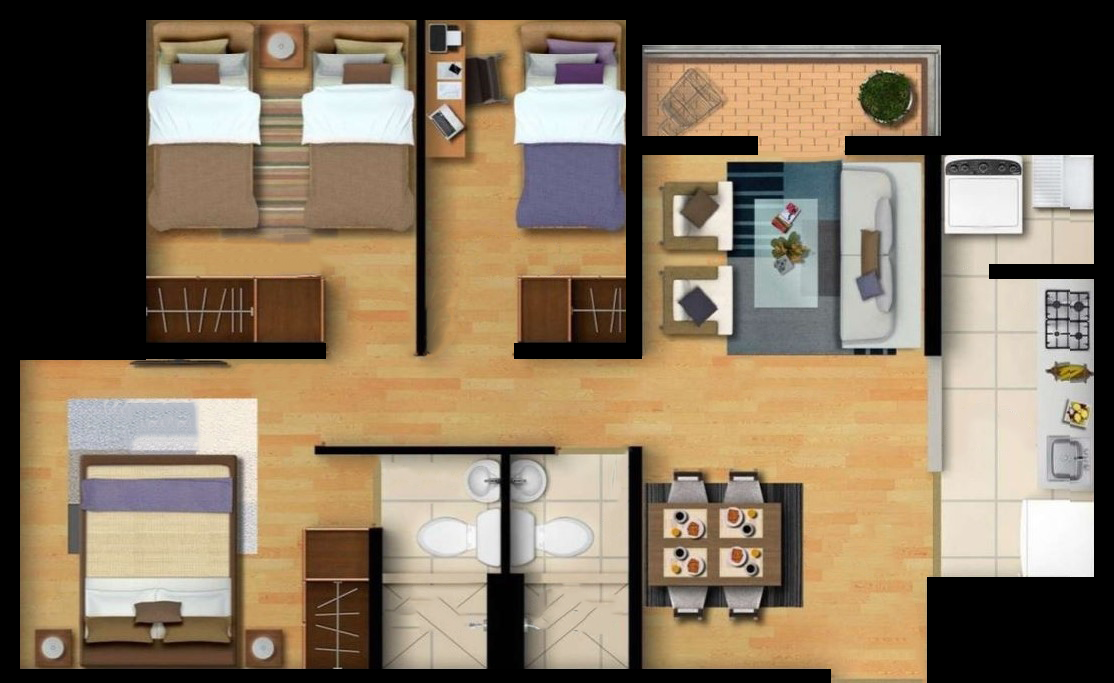
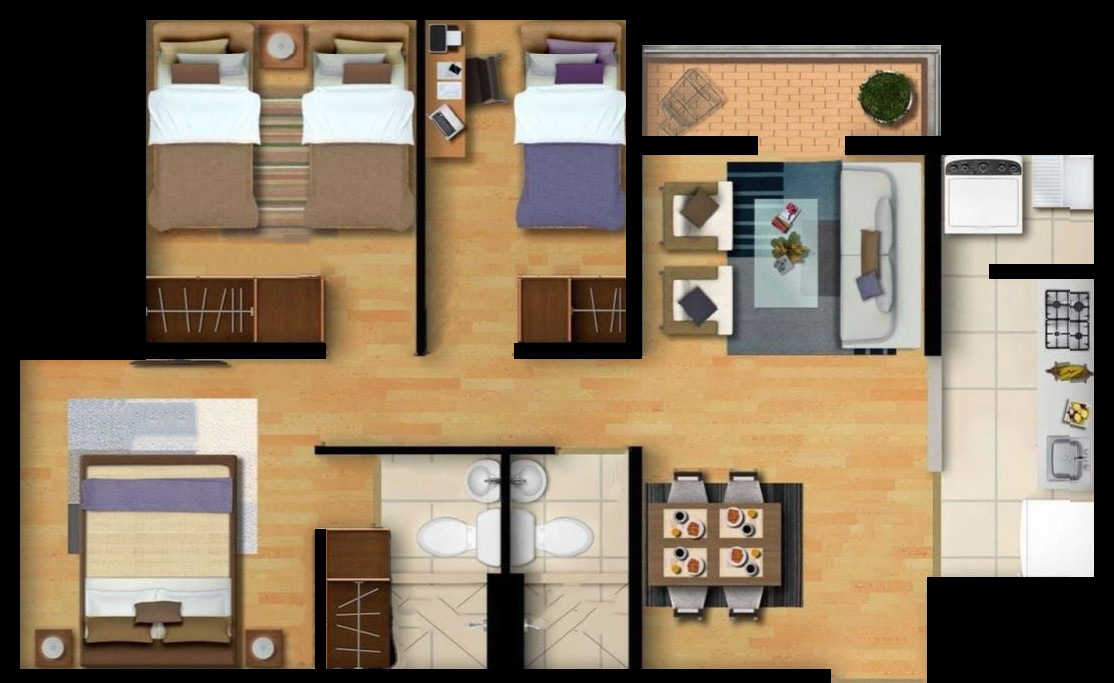
Adding apartment change and clicking doors

Changed region(s): [[0.2442, 0.7687, 0.3662, 0.9839]]

diff --git a/index.html b/index.html
@@ -75,14 +75,46 @@
         </div>
       </div>
       <!--Puertas-->
-      <div id="bathroomBedroomOneDoor" class="door"></div>
-      <div id="mainBedroomDoor" class="door"></div>
-      <div id="bedroomTwoDoor" class="door"></div>
-      <div id="bedroomThreeDoor" class="door"></div>
-      <div id="balconyDoor" class="door"></div>
-      <div id="laundryDoor" class="door"></div>
-      <div id="bathroomBedroomTwoDoor" class="door"></div>
-      <div id="principalDoor" class="door"></div>
+      <div
+        id="bathroomBedroomOneDoor"
+        class="door"
+        onclick="toggleDoorsAndWindows('bathroomBedroomOneDoor')"
+      ></div>
+      <div
+        id="mainBedroomDoor"
+        class="door"
+        onclick="toggleDoorsAndWindows('mainBedroomDoor')"
+      ></div>
+      <div
+        id="bedroomTwoDoor"
+        class="door"
+        onclick="toggleDoorsAndWindows('bedroomTwoDoor')"
+      ></div>
+      <div
+        id="bedroomThreeDoor"
+        class="door"
+        onclick="toggleDoorsAndWindows('bedroomThreeDoor')"
+      ></div>
+      <div
+        id="balconyDoor"
+        class="door"
+        onclick="toggleDoorsAndWindows('balconyDoor')"
+      ></div>
+      <div
+        id="laundryDoor"
+        class="door"
+        onclick="toggleDoorsAndWindows('laundryDoor')"
+      ></div>
+      <div
+        id="bathroomBedroomTwoDoor"
+        class="door"
+        onclick="toggleDoorsAndWindows('bathroomBedroomTwoDoor')"
+      ></div>
+      <div
+        id="principalDoor"
+        class="door"
+        onclick="toggleDoorsAndWindows('principalDoor')"
+      ></div>
 
       <div>
         <h1>Por: <em>Javier Leonardo Pinto</em></h1>
@@ -94,8 +126,12 @@
           <ul>
             <li>Prende y apaga la cámara</li>
             <li>Prende y apaga las luces de cada habitación</li>
+            <li>Abre y cierra las puertas de cada zona</li>
           </ul>
           <p>Ejemplo: Di <em>"prende la luz del baño"</em></p>
+          <p>
+            Ejemplo: Di <em>"cierra la puerta de la habitación principal"</em>
+          </p>
         </div>
       </div>
     </div>

diff --git a/styles.css b/styles.css
@@ -16,7 +16,7 @@ body {
 
 #mainBedroom {
   position: absolute;
-  width: 267px;
+  width: 229px;
   height: 239px;
   top: 292px;
   left: 35px;
@@ -97,13 +97,9 @@ div span {
 #bathroomBedroomOne {
   position: absolute;
   top: 366px;
-  left: 302px;
-  width: 102px;
-  height: 166px;
-}
-
-#bathroomBedroomOne span {
-  transform: rotate(90deg);
+  left: 264px;
+  width: 139px;
+  height: 165px;
 }
 
 #bathroomBedroomTwo span {
@@ -137,8 +133,8 @@ div span {
 #hall {
   position: absolute;
   top: 292px;
-  left: 302px;
-  width: 208px;
+  left: 264px;
+  width: 246px;
   height: 74px;
 }
 
@@ -200,7 +196,7 @@ p {
 #bathroomBedroomOneDoor {
   position: absolute;
   top: 367px;
-  left: 300px;
+  left: 257px;
   width: 13px;
   height: 56px;
   background: #804000;
@@ -219,6 +215,7 @@ p {
   width: 13px;
   height: 66px;
   background: #804000;
+  transform-origin: top center;
 }
 
 #mainBedroomDoor.open {

diff --git a/index.js b/index.js
@@ -226,3 +226,7 @@ const toggleCamera = () => {
 const toggleLight = (roomId) => {
   rooms[roomId].classList.toggle("lights-on");
 };
+
+const toggleDoorsAndWindows = (roomId) => {
+  doorsAndWindows[roomId].classList.toggle("open");
+};
